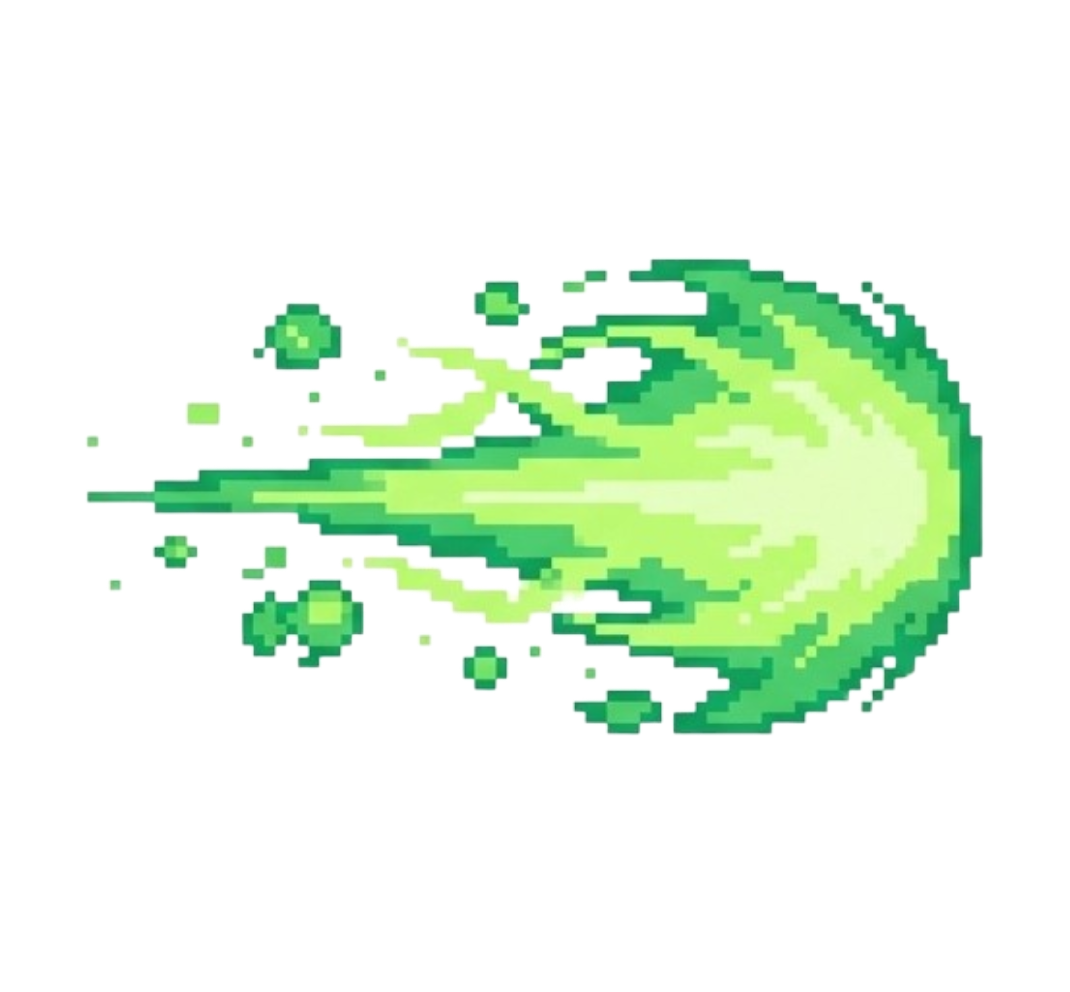
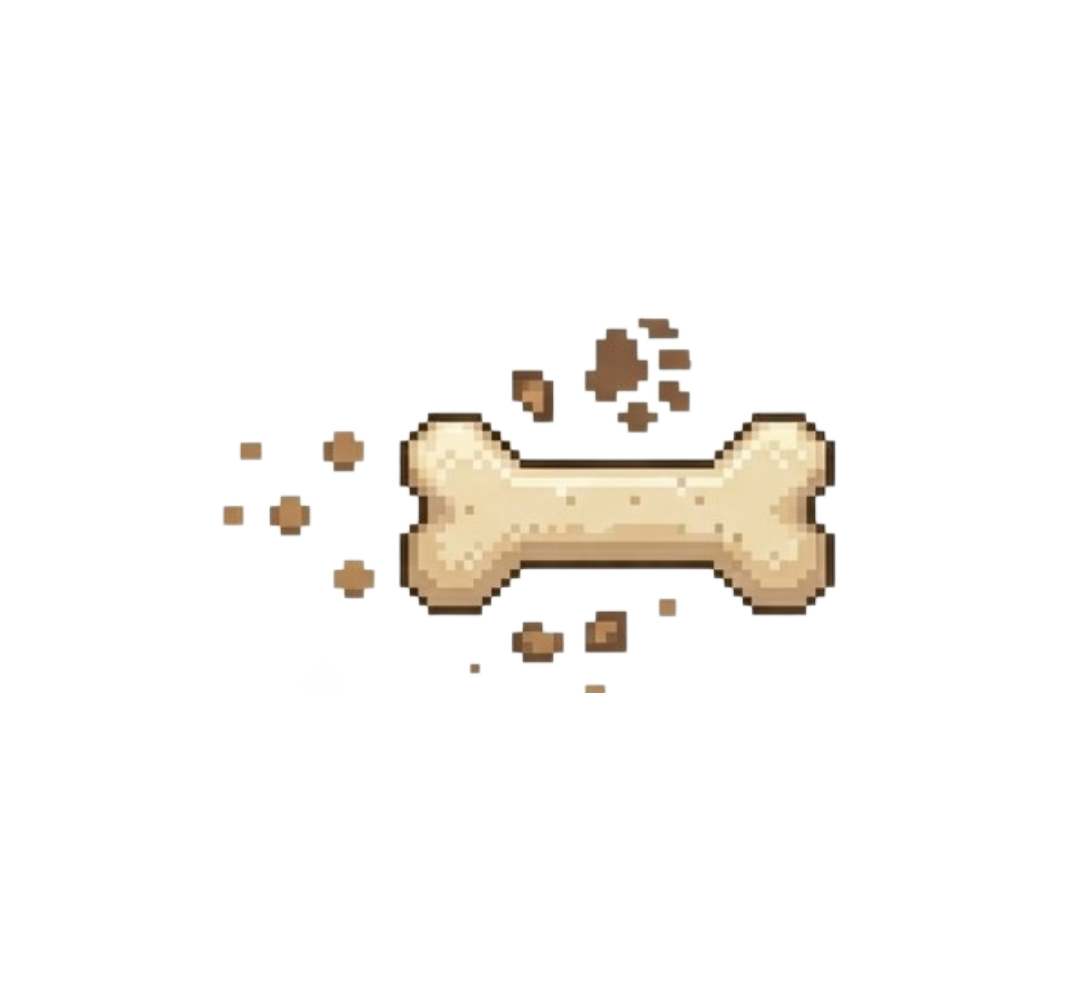
캐릭터 무빙 추가

diff --git a/index.html b/index.html
@@ -414,6 +414,41 @@
         }
         #turret-btn:disabled { opacity: 0.45; cursor: not-allowed; }
         #turret-btn:not(:disabled):hover { background: rgba(255,255,255,0.18); }
+
+        /* ===== v54: 게임오버 창 화면 크기 대응 (모바일 가로 화면에서도 메뉴 3개가 한 화면에) ===== */
+        #gameover-modal { justify-content: center; padding: 8px; box-sizing: border-box; overflow-y: auto; }
+        #gameover-title { font-size: clamp(26px, 7vh, 42px) !important; margin: 0 !important; line-height: 1.1; }
+        #final-stats { font-size: clamp(12px, 2.8vh, 16px) !important; margin: clamp(2px, 0.8vh, 4px) 0 clamp(4px, 1.2vh, 10px) !important; }
+        #reward-box {
+            min-width: 0 !important; width: min(340px, 92%); box-sizing: border-box;
+            padding: clamp(4px, 1.2vh, 10px) 16px !important;
+            margin-bottom: clamp(6px, 1.6vh, 14px) !important;
+            font-size: clamp(11px, 2.4vh, 14px); line-height: 1.5 !important;
+        }
+        #gameover-modal .btn-row { margin-top: 0; gap: clamp(6px, 1.5vw, 12px); }
+        #gameover-modal .btn { padding: clamp(6px, 1.4vh, 12px) clamp(12px, 3vw, 32px) !important; font-size: clamp(13px, 2.8vh, 18px) !important; }
+        #gameover-modal .btn-sub { padding: clamp(6px, 1.4vh, 10px) clamp(10px, 2.4vw, 22px) !important; font-size: clamp(12px, 2.6vh, 15px) !important; }
+        /* ===== v57: 모든 창을 화면에 맞추고, 넘치면 스크롤 (잘린 메뉴 방지) ===== */
+        .modal { justify-content: safe center; overflow-y: auto; -webkit-overflow-scrolling: touch; padding: 8px 0; box-sizing: border-box; }
+        #gameover-modal, #levelup-modal, #pause-modal, #menu-modal, #map-modal, #character-select-modal, #shop-modal { touch-action: pan-y; }
+        @media (pointer: coarse) and (max-height: 520px) {
+            .modal h1 { font-size: clamp(22px, 6vh, 34px) !important; }
+            .modal h2 { font-size: clamp(18px, 5vh, 28px) !important; margin: 0 0 4px !important; }
+            .modal p { margin: 2px 0 6px !important; font-size: clamp(11px, 2.4vh, 14px) !important; }
+            .modal .btn { padding: clamp(5px, 1.3vh, 10px) clamp(12px, 3vw, 28px) !important; font-size: clamp(12px, 2.6vh, 16px) !important; }
+            .modal .btn-sub { padding: clamp(5px, 1.2vh, 9px) clamp(10px, 2.4vw, 20px) !important; font-size: clamp(11px, 2.4vh, 14px) !important; }
+            .modal .btn-row { margin-top: 4px; gap: 6px; }
+        }
+        /* ===== v58: 캐릭터 선택 카드 이미지 (모두 같은 크기) ===== */
+        .char-select-card .character-img {
+            width: clamp(44px, 9vh, 72px);
+            height: clamp(44px, 9vh, 72px);
+            object-fit: contain;
+            display: block;
+            margin: 0 auto clamp(2px, 0.6vh, 6px);
+        }
+        .char-select-card .character-img.locked-img { filter: grayscale(1) brightness(0.5); }
+        .char-select-card .character-img.locked-img + .character-icon { font-size: clamp(16px, 3.5vh, 22px); margin-bottom: 2px; }
     </style>
 </head>
 <body>
@@ -587,14 +622,14 @@ const CITY_STAGE_MONSTERS = [
 
 // ===== 대도시 보스 (10·20·30·45레벨) =====
 const CITY_BOSS_LEVELS = [10, 20, 30, 45];
-const CITY_BOSS_STAGE = { 10: 1, 20: 2, 30: 3, 45: 4 };      // 보스 등장 시 바뀌는 배경 번호
+// 대도시 배경은 플레이어 레벨 기준으로 바뀜 (cityLevelStage 참고)
 const CITY_BOSS_NAMES = { 10: '단소 살인마', 20: '취해버린 부장 좀비', 30: '유혹의 가챠 기계', 45: '동네 유치원생' };
 const CITY_BOSS_STATS = {
     // minHp/seconds: 체력 = max(minHp, seconds × 플레이어 기본공격 초당 화력)
     10: { minHp: 15000, seconds: 50, speed: 0.60, contact: 30, bullets: 10, interval: 2.4, bulletDmg: 14, bulletSpeed: 3.0, sprite: 'CityBoss10' },
     20: { minHp: 25000, seconds: 60, speed: 0.65, contact: 35, bullets: 10, interval: 1.4, bulletDmg: 18, bulletSpeed: 4.0, sprite: 'CityBoss20' },
     30: { minHp: 30000, seconds: 65, speed: 0.50, contact: 35, bullets: 0,  interval: 0,   bulletDmg: 0,  bulletSpeed: 0,   sprite: 'CityBoss30' },
-    45: { minHp: 80000, seconds: 100, speed: 0.45, contact: 50, bullets: 0, interval: 0, bulletDmg: 0, bulletSpeed: 0, sprite: 'CityBoss45' }
+    45: { minHp: 160000, seconds: 200, speed: 0.45, contact: 50, bullets: 0, interval: 0, bulletDmg: 0, bulletSpeed: 0, sprite: 'CityBoss45' }
 };
 const CITY_CLEAR_BOSS_COUNT = 4;   // 시티보스 4마리를 모두 처치하면 클리어
 let cityBossKills = 0;
@@ -1272,7 +1307,7 @@ const CHARACTERS = {
         passive: 'doctor', price: 1500
     },
     p8: {
-        name: '강아지', icon: '🐶', image: 'images/player7.png', bulletImage: 'images/attack_7.png',
+        name: '성직자', icon: '🐶', image: 'images/player7.png', bulletImage: 'images/attack_7.png',
         attackMult: 1.10, attackSpeed: 1.0, moveMult: 1.15, pierce: 1, hpBonus: -15, critDmgBonus: 20,
         splash: false, splashRadius: 1.0, crit: 0, startSkills: {}, cardChoices: 3,
         ability: '🦴 충성: 코인 획득량 +15% / 치명타 피해 +20% / 이동 +15%', drawback: '최대 체력 -15',
@@ -1304,13 +1339,14 @@ function buildCharacterGrid() {
         card.tabIndex = 0;
         card.setAttribute('role', 'button');
         card.innerHTML = `
-            <div class="character-icon">${c.icon}</div>
+            <img class="character-img" src="${c.image}" alt="${c.name}">
             <div class="character-name">${c.name}</div>
             <div class="character-ability">${c.ability}</div>
             <div class="character-drawback">${c.drawback}</div>`;
         if (!isCharOwned(id)) {
             card.classList.add('locked');
             card.innerHTML = `
+                <img class="character-img locked-img" src="${c.image}" alt="${c.name}">
                 <div class="character-icon">🔒</div>
                 <div class="character-name">${c.name}</div>
                 <div class="character-ability">개인 훈련에서 🪙 ${c.price} 에 구매</div>`;
@@ -1443,7 +1479,11 @@ function gameLoop(timestamp) {
     lastTime = timestamp;
 
     if (gameState === 'PLAYING' && !isPortraitBlocked()) {
-        update(dt);   // 모바일 세로 모드일 때는 가로 모드 안내가 뜨는 동안 일시정지
+        if (roulette && roulette.phase === 'spin') {
+            updateRoulette(dt);   // 🎰 룰렛이 도는 동안: 게임 전체 정지, 룰렛 연출만 진행
+        } else {
+            update(dt);           // 모바일 세로 모드일 때는 가로 모드 안내가 뜨는 동안 일시정지
+        }
     }
     render();
 
@@ -2136,7 +2176,6 @@ function spawnCityBoss(level) {
     const bs = CITY_BOSS_STATS[level];
     showAnnouncement(`⚠ [Lv.${level}] ${CITY_BOSS_NAMES[level]} 등장! ⚠`, 3000);
     SFX.play('boss');
-    setBackgroundStage(CITY_BOSS_STAGE[level]);
 
     const angle = Math.random() * Math.PI * 2;
     const hp = Math.max(bs.minHp, Math.round(bs.seconds * playerMainDps()));
@@ -2159,10 +2198,10 @@ function spawnCityBoss(level) {
 
 function onCityBossKilled(e) {
     cityBossKills++;
+    if (e.bossLevel === 45) setBackgroundStage(5);   // 45레벨 보스 처치 → 마지막 배경 (backg_city5)
     player.hp = Math.min(player.maxHp, player.hp + 30);
     if (cityBossKills >= CITY_CLEAR_BOSS_COUNT) {
         recordClear();
-        setBackgroundStage(5);   // 클리어 후 마지막 배경 (City9 등장)
         showAnnouncement('🏆 대도시 클리어! (우측 하단 버튼으로 종료)', 4000);
     } else {
         showAnnouncement(`🎉 ${CITY_BOSS_NAMES[e.bossLevel]} 처치! HP 30 회복`);
@@ -2194,8 +2233,19 @@ function spawnToys() {
 }
 
 // 대도시 보스 시간 로직: 가챠기계 룰렛 / 유치원생 스폰
+function cityLevelStage(level) {
+    if (level >= 40) return 4;
+    if (level >= 30) return 3;
+    if (level >= 20) return 2;
+    if (level >= 10) return 1;
+    return 0;
+}
+
 function updateCityBosses(dt) {
     if (currentWorld !== 'city') return;
+    // 배경은 10레벨 단위로 바뀜 (0~9: 0 / 10~19: 1 / 20~29: 2 / 30~39: 3 / 40~: 4). 45레벨 보스 처치 후에는 5
+    const target = cityLevelStage(player.level);
+    if (target > bgStage && bgStage < 5) setBackgroundStage(target);
     if (enemies.some(e => e.cityBoss && e.bossLevel === 30)) {
         gachaTimer += dt;
         if (!roulette && gachaTimer >= GACHA_INTERVAL) {
@@ -3067,7 +3117,8 @@ function updateItemsAndGems(dt) {
 }
 
 function addExp(val) {
-    player.exp += val * player.expMult;
+    const bonus = (currentWorld === 'base' && player.level >= 55) ? 1.5 : 1;   // 황궁 던전 55레벨 이상: 경험치 1.5배
+    player.exp += val * player.expMult * bonus;
     if (player.exp >= player.maxExp) {
         player.exp -= player.maxExp;
         player.level++;
@@ -3344,7 +3395,7 @@ function render() {
 
     // 🧙♂ 캐릭터 렌더링 (이미지 원본 비율 유지)
     ctx.save();
-    if (playerImg.complete && playerImg.naturalWidth !== 0) {
+    if (ANIM_SETS[selectedCharType] || (playerImg.complete && playerImg.naturalWidth !== 0)) {
         drawPlayerSprite();
     } else {
         ctx.fillStyle = '#00ffcc';
@@ -3493,7 +3544,13 @@ function drawPlayerSprite() {
     ctx.save();
     ctx.imageSmoothingEnabled = SPRITE_SMOOTHING;
     if (SPRITE_SMOOTHING) ctx.imageSmoothingQuality = 'high';
-    ctx.drawImage(playerImg, player.x - w / 2, player.y - h / 2, w, h);
+    if (playerAnim.left) {                  // 왼쪽 이동 시 좌우 반전 (프레임 캐릭터와 동일)
+        ctx.translate(player.x, player.y);
+        ctx.scale(-1, 1);
+        ctx.drawImage(playerImg, -w / 2, -h / 2, w, h);
+    } else {
+        ctx.drawImage(playerImg, player.x - w / 2, player.y - h / 2, w, h);
+    }
     ctx.restore();
 }
 
@@ -3724,11 +3781,31 @@ const petImgs = {};
 // ===== 캐릭터 프레임 애니메이션 =====
 // 걷기: 오른쪽 방향 8장 (왼쪽은 좌우 반전), 공격: 4장 (공격할 때마다 한 번 재생)
 const ANIM_SETS = {
+    // 공듀(p1): 걷기 7장 + 공격 4장 (원본 256px → 67.5px)
+    p1: {
+        walk: ['images/princess_walk_0.png', 'images/princess_walk_1.png', 'images/princess_walk_2.png', 'images/princess_walk_3.png',
+               'images/princess_walk_4.png', 'images/princess_walk_5.png', 'images/princess_walk_6.png'],
+        attack: ['images/princess_attack_0.png', 'images/princess_attack_1.png', 'images/princess_attack_2.png', 'images/princess_attack_3.png'],
+        size: 67.5
+    },
+    // 왕자(완댜 p2): 기본/걷기 1장(prince_walk.png) + 공격 4장
+    p2: {
+        walk: ['images/prince_walk.png'],
+        attack: ['images/prince_attack_0.png', 'images/prince_attack_1.png', 'images/prince_attack_2.png', 'images/prince_attack_3.png'],
+        size: 67.5
+    },
+    // 법사(p3): 기본/걷기 1장(magic_walk.png) + 공격 4장
     p3: {
+        walk: ['images/magic_walk.png'],
+        attack: ['images/magic_attack_0.png', 'images/magic_attack_1.png', 'images/magic_attack_2.png', 'images/magic_attack_3.png'],
+        size: 76.5
+    },
+    // player7 이미지를 쓰는 캐릭터(강아지 p8): 기존 mage 걷기 8장 + 공격 4장
+    p8: {
         walk: ['images/mage_walk_0.png', 'images/mage_walk_1.png', 'images/mage_walk_2.png', 'images/mage_walk_3.png',
                'images/mage_walk_4.png', 'images/mage_walk_5.png', 'images/mage_walk_6.png', 'images/mage_walk_7.png'],
         attack: ['images/mage_attack_0.png', 'images/mage_attack_1.png', 'images/mage_attack_2.png', 'images/mage_attack_3.png'],
-        size: 76.5         // 그려지는 크기(px). 기존 102의 3/4
+        size: 76.5
     }
 };
 const WALK_FPS = 8;                // 걷기 프레임 속도
@@ -3767,8 +3844,9 @@ function drawAnimatedPlayer() {
     } else {
         src = set.walk[0];   // 멈춰 있을 때는 첫 프레임
     }
-    const img = animImgs[src];
-    if (!img || !img.complete || img.naturalWidth === 0) return false;
+    let img = animImgs[src];
+    if (!img || !img.complete || img.naturalWidth === 0) img = animImgs[set.walk[0]];   // 이 프레임이 없으면 기본 자세
+    if (!img || !img.complete || img.naturalWidth === 0) return true;                   // 아무 프레임도 없으면 그리지 않음 (기존 PNG로 되돌아가지 않음)
     const s = set.size;
     ctx.save();
     ctx.translate(player.x, player.y);
@@ -3993,6 +4071,8 @@ function recordClear() {
 
 // 클리어 전이면 현재 기록, 클리어 후면 처치 직후 기록을 사용
 function getRunStats() {
+    // 대도시는 클리어 후에도 몬스터를 잡으면 코인을 계속 얻음 (처치 수는 실시간, 나머지는 클리어 시점 기록)
+    if (clearSnapshot && currentWorld === 'city') return { ...clearSnapshot, kills: killCount };
     return clearSnapshot || { time: Math.floor(gameTime), kills: killCount, level: player.level, bossKills: bossKills };
 }
 
